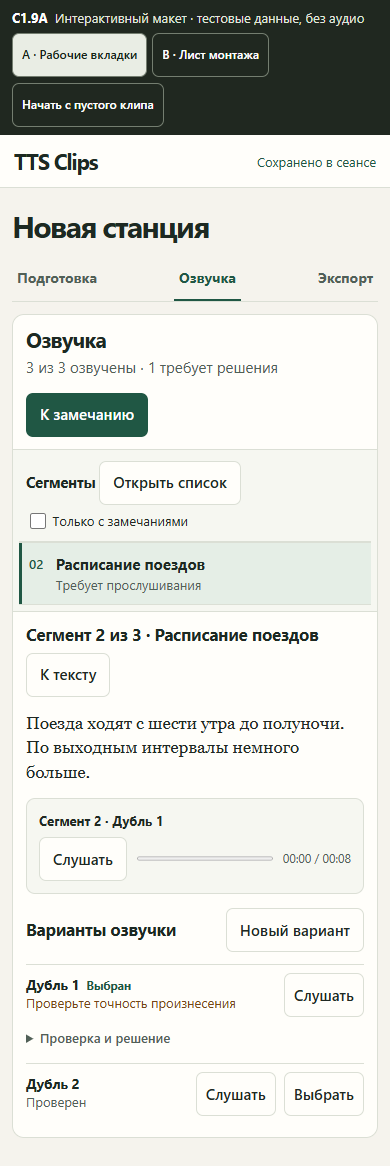
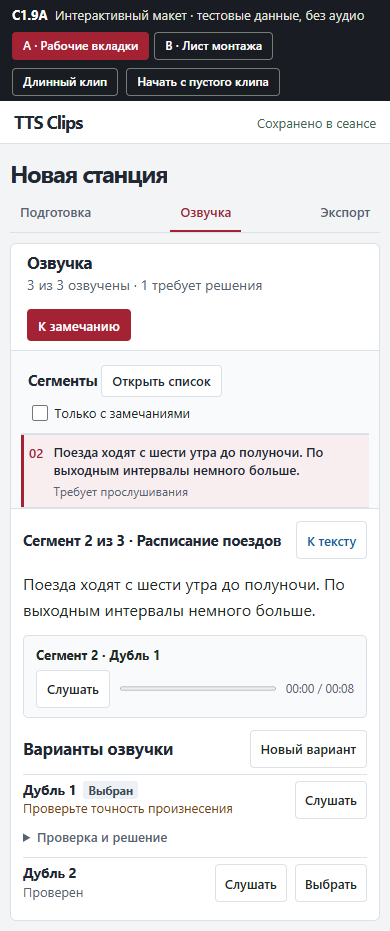
Adapt compact tabbed workspace to long speech segments

diff --git a/docs/mockups/c1.9a/mockups.js b/docs/mockups/c1.9a/mockups.js
@@ -4,6 +4,7 @@ const phrases = [
   { name: "Доступ к платформам", text: "К платформам ведёт крытая галерея. Для пассажиров с колясками работают два лифта." }
 ];
 const example = phrases.map(item => item.text).join("\n\n");
+const longExample = "Утренний поезд приходит к открытой платформе, когда в окнах станционного зала только загорается свет. Во время первой недели дежурные записывали вопросы пассажиров и отмечали места, где люди останавливались в поисках указателя. Эти наблюдения передали проектировщикам.\n\nПоезда ходят с шести утра до полуночи. В выходные дни интервалы между рейсами немного увеличиваются. О том, как устроен маршрут, рассказывают сотрудники станции. Вместе с корреспондентом они прошли весь путь от входных дверей до края платформы.\n\nК платформам ведёт крытая галерея, по которой пассажиры могут пройти от остановки даже в сильный дождь. Во время первой недели дежурные записывали вопросы пассажиров и отмечали места, где люди останавливались в поисках указателя. Эти наблюдения передали проектировщикам.\n\nУ центрального входа сохранили старые часы, которые много лет служили местом встречи перед отправлением. О том, как устроен маршрут, рассказывают сотрудники станции. Вместе с корреспондентом они прошли весь путь от входных дверей до края платформы.\n\nДля велосипедистов рядом с кассами оборудовали стоянку и оставили свободный проход к боковому входу. Во время первой недели дежурные записывали вопросы пассажиров и отмечали места, где люди останавливались в поисках указателя. Эти наблюдения передали проектировщикам.\n\nИз вестибюля хорошо видно табло отправления, поэтому пассажирам больше не приходится подходить к кассе. О том, как устроен маршрут, рассказывают сотрудники станции. Вместе с корреспондентом они прошли весь путь от входных дверей до края платформы.\n\nВечерние рейсы встречает дежурный сотрудник, который помогает найти нужный выход к автобусной остановке. Во время первой недели дежурные записывали вопросы пассажиров и отмечали места, где люди останавливались в поисках указателя. Эти наблюдения передали проектировщикам.\n\nПереход через пути перенесли в подземную галерею, связанную с платформой широким освещённым пандусом. О том, как устроен маршрут, рассказывают сотрудники станции. Вместе с корреспондентом они прошли весь путь от входных дверей до края платформы.\n\nЗал ожидания открывается до первого поезда, чтобы ранние пассажиры могли дождаться рейса в тепле. Во время первой недели дежурные записывали вопросы пассажиров и отмечали места, где люди останавливались в поисках указателя. Эти наблюдения передали проектировщикам.\n\nРядом с лестницей работает лифт, в который свободно помещаются детская коляска и сопровождающий взрослый. О том, как устроен маршрут, рассказывают сотрудники станции. Вместе с корреспондентом они прошли весь путь от входных дверей до края платформы.\n\nНа западной стороне станции обустроили небольшой сквер, откуда пешеходная дорожка ведёт к жилому кварталу. Во время первой недели дежурные записывали вопросы пассажиров и отмечали места, где люди останавливались в поисках указателя. Эти наблюдения передали проектировщикам.\n\nПосле последнего рейса сотрудники обходят платформы и проверяют освещение вдоль всего пассажирского маршрута. О том, как устроен маршрут, рассказывают сотрудники станции. Вместе с корреспондентом они прошли весь путь от входных дверей до края платформы.";
 const presets = {
   "Спокойный диктор": "Calm Russian narrator, clear articulation, measured pace.",
   "Спокойный репортаж": "Russian field reporter, warm conversational tone, natural pauses.",
@@ -13,9 +14,11 @@ const labels = { prep: "Подготовка", studio: "Озвучка", export:
 const stages = Object.keys(labels);
 const root = document.querySelector("#app");
 let concept, view, state, timer;
+let listOffset = 0;
 
 function reset(scene = "empty") {
   clearTimeout(timer);
+  listOffset = 0;
   view = scene === "export" ? "export" : scene === "work" ? "studio" : "prep";
   state = {
     name: scene === "empty" ? "Новый клип" : "Новая станция",
@@ -123,7 +126,7 @@ function inspector(items) {
   if (!row) return "";
   const isReview = items.length > 1 && i === 1;
   const playing = state.playing || (isReview ? state.current : 1);
-  return `<article id="segment-focus" tabindex="-1" class="inspector" aria-label="Активный сегмент">
+  return `<article id="segment-focus" data-segment-id="${i}" tabindex="-1" class="inspector" aria-label="Активный сегмент">
     <div class="inspector-top"><h3>Сегмент ${i + 1} из ${items.length} · ${escape(row.name)}</h3>
       ${button("К тексту", "back-text")}</div>
     <blockquote>${escape(row.text)}</blockquote>
@@ -147,7 +150,7 @@ function studio() {
     if (state.filter && needsReview() && i !== 1) return "";
     const status = !state.synthesized ? "Нет записи" : i === 1 && needsReview() ? "Требует прослушивания" : "Готов к экспорту";
     return `<li class="segment"><button class="segment-row" data-action="segment" data-segment="${i}" aria-pressed="${i === index}">
-      <span class="segment-index">${String(i + 1).padStart(2,"0")}</span><span><span class="segment-title">${escape(row.name)}</span>
+      <span class="segment-index">${String(i + 1).padStart(2,"0")}</span><span><span class="segment-title">${escape(concept === "a" ? row.text : row.name)}</span>
       <span class="segment-caption">${status}</span></span></button>
       ${concept === "b" && i === index ? inspector(items) : ""}</li>`;
   }).join("");
@@ -197,6 +200,10 @@ function exporting() {
 }
 
 function render(focus = "") {
+  const oldList = root.querySelector("#segment-list");
+  if (oldList && document.body.dataset.concept === "a") listOffset = oldList.scrollTop;
+  const oldInspector = root.querySelector("#segment-focus");
+  const inspectorOffset = oldInspector?.dataset.segmentId === String(state.selection) ? oldInspector.scrollTop : 0;
   document.body.dataset.concept = concept;
   document.querySelectorAll("[data-concept]").forEach(el => {
     if (el.tagName === "BUTTON") el.setAttribute("aria-pressed", el.dataset.concept === concept);
@@ -216,6 +223,20 @@ function render(focus = "") {
           `class="inline-stage-head" aria-expanded="${view === stage}" aria-controls="panel-${stage}"`)}
         <div id="panel-${stage}" ${view === stage ? "" : "hidden"}>${view === stage ? content[stage]() : ""}</div></section>`).join("")}
     </main>`;
+  if (concept === "a") {
+    const list = root.querySelector("#segment-list");
+    const inspector = root.querySelector("#segment-focus");
+    if (list) {
+      list.scrollTop = listOffset;
+      const current = list.querySelector('[aria-pressed="true"]');
+      if (current && list.clientHeight < list.scrollHeight) {
+        const item = current.getBoundingClientRect(), panel = list.getBoundingClientRect();
+        if (item.bottom > panel.bottom) list.scrollTop += item.bottom - panel.bottom;
+        if (item.top < panel.top) list.scrollTop += item.top - panel.top;
+      }
+    }
+    if (inspector) inspector.scrollTop = inspectorOffset;
+  }
   if (focus) document.querySelector(focus)?.focus({ preventScroll: false });
 }
 
@@ -229,7 +250,11 @@ function go(stage, focus = true) {
 function fromHash() {
   const [letter, scene] = location.hash.slice(1).split("/");
   concept = letter === "a" ? "a" : "b";
-  reset(!letter ? "work" : ["work", "prep", "export"].includes(scene) ? scene : "empty");
+  if (letter === "a" && scene === "long") {
+    reset("work");
+    state.text = longExample;
+    state.name = "Станция глазами пассажира";
+  } else reset(!letter ? "work" : ["work", "prep", "export"].includes(scene) ? scene : "empty");
   render();
 }
 window.addEventListener("hashchange", fromHash);
@@ -265,6 +290,7 @@ document.addEventListener("change", event => {
 document.addEventListener("click", event => {
   const el = event.target.closest("button");
   if (!el) return;
+  if (el.dataset.action === "long-demo") { location.hash = "a/long"; fromHash(); return; }
   if (el.dataset.concept) { concept = el.dataset.concept; render(); return; }
   const action = el.dataset.action;
   if (!action) return;

diff --git a/docs/mockups/c1.9a/mockups.css b/docs/mockups/c1.9a/mockups.css
@@ -193,3 +193,54 @@ body[data-concept=b] {
 }
 body[data-concept=b] { min-height:100vh }
 body[data-concept=b] .save { color:#426552 }
+body:not([data-concept=a]) .long-demo { display:none }
+body[data-concept=a] {
+  --accent:#a32335; --ink:#202833; --muted:#566371; --line:#dce1e6; --paper:#fff;
+  --soft:#f9fafb; --tint:#f8eef0; background:#f3f4f6; min-height:100vh;
+  font:14px/1.48 "Segoe UI",Arial,sans-serif;
+  & .review {background:#191d23;padding-block:5px;gap:8px}
+  & .review button {min-height:28px;font-size:12px}
+  & .review button[aria-pressed=true] {background:#a32335;color:white;border-color:#a32335}
+  & .top-inner {min-height:42px;padding-block:4px}
+  & .wordmark {font-size:18px}
+  & .save {color:#426552}
+  & .workspace {max-width:1360px;padding-top:16px;padding-bottom:16px}
+  & .clip-header {margin-bottom:4px}
+  & .clip-name {font-size:24px;min-height:32px;width:min(100%,32ch)}
+  & button,& select,& input:not([type=checkbox]) {min-height:32px}
+  & button {font-size:13px;padding:4px 10px;border-radius:4px;font-weight:550}
+  & .stages {margin-bottom:10px;gap:15px}
+  & .stages button {min-height:38px;border-radius:0}
+  & .stage {border-radius:6px}
+  & .stage-head,& .stage-foot {padding:9px 16px}
+  & .stage-head h2 {font-size:17px}
+  & .stage-head p {margin-top:2px}
+  & .segment-list {padding:9px 10px 0;border-radius:0}
+  & .segment-row {padding:8px;line-height:1.4;border-radius:0}
+  & .segment-title {font-size:13px;font-weight:550;display:-webkit-box;-webkit-line-clamp:2;-webkit-box-orient:vertical;overflow:hidden}
+  & .segment-caption {font-size:12px;margin-top:3px}
+  & .inspector {padding:14px 18px;gap:12px}
+  & .inspector-top h3 {font-size:15px}
+  & .inspector-top button {color:#175da1}
+  & .inspector blockquote {font:16px/1.6 "Segoe UI",Arial,sans-serif;max-width:70ch}
+  & .field-head {margin-bottom:6px}
+  & .player {border-radius:5px;padding:9px 12px}
+  & .take {padding:6px 0}
+  & .active-label {background:#edf1f5;color:#3c4957;padding:1px 5px;border-radius:3px}
+  & .prep>div,& .export-grid>div {padding:14px 16px}
+  & .stack {gap:8px;align-content:start}
+  & .script {font:15px/1.6 "Segoe UI",Arial,sans-serif;height:clamp(200px,44vh,540px)}
+  & .hint:not(.warn) {background:#f1f7f3;border-color:#498264}
+  & summary {padding-block:5px}
+}
+@media(min-width:701px) and (min-height:590px) {
+ body[data-concept=a] .studio {height:clamp(305px,calc(100dvh - 268px),840px);grid-template-columns:minmax(230px,.85fr) minmax(0,1.8fr)}
+ body[data-concept=a] .segment-list {display:flex;flex-direction:column;min-height:0}
+ body[data-concept=a] #segment-list,body[data-concept=a] .inspector {overflow-y:auto;overscroll-behavior-y:contain;scrollbar-gutter:stable;min-height:0}
+}
+@media(max-width:700px) {
+ body[data-concept=a] .workspace {padding:10px}
+ body[data-concept=a] .segment-list.show-all #segment-list {max-height:36dvh;overflow-y:auto}
+ body[data-concept=a] .inspector {padding:12px}
+ body[data-concept=a] .inspector button, body[data-concept=a] .stages button {min-height:38px}
+}

diff --git a/docs/mockups/c1.9a/index.html b/docs/mockups/c1.9a/index.html
@@ -14,6 +14,7 @@
     <button type="button" data-concept="a">A · Рабочие вкладки</button>
     <button type="button" data-concept="b">B · Лист монтажа</button>
   </div>
+  <button type="button" class="long-demo" data-action="long-demo">Длинный клип</button>
   <button class="reset" type="button" data-action="reset">Начать с пустого клипа</button>
 </header>
 <div id="app"></div>

diff --git a/docs/C1.9A_UX_Redesign_Proposal.md b/docs/C1.9A_UX_Redesign_Proposal.md
@@ -1,6 +1,6 @@
 # C1.9A. Предложение по редизайну TTS Clips
 
-**Выбранная структура — B, «Лист монтажа».** Рабочие разделы раскрываются на одном листе. Визуальная редакция для согласования использует компактные формы, белые поверхности, нейтральный серый фон, графитовую шапку и бордовый акцент действий. На широком экране в раскрытой строке текст и плеер расположены слева, варианты — справа. На телефоне они идут друг за другом.
+**На согласовании две компактные версии.** B сохраняет структуру «Лист монтажа». Рабочие разделы раскрываются на одном листе. Визуальная редакция для согласования использует компактные формы, белые поверхности, нейтральный серый фон, графитовую шапку и бордовый акцент действий. На широком экране в раскрытой строке текст и плеер расположены слева, варианты — справа. На телефоне они идут друг за другом.
 
 Целевой пользователь — монтажёр, которому передали готовый русский перевод. Его первая задача — вставить материал, выбрать голос, озвучить текст, разобрать замечания и получить MP3 без обучения. Основание — [C1.7](C1.7_Pilot_and_UX_Audit.md), [C1.8](C1.8_Speech_Ready_and_Integrity_Validation.md) и реализация `origin/main` на `f8b0ce3`. Изменения этого предложения находятся в `docs/`.
 
@@ -28,6 +28,10 @@ py -3 -m http.server 8795 --bind 127.0.0.1 --directory docs/mockups/c1.9a
 Под названием клипа постоянно видны три вкладки. На ширине от 900 px в «Подготовке» редактор и голос стоят рядом. В «Озвучке» слева остаётся список сегментов с готовностью текущего выбора, справа видны номер и текст активной реплики, один плеер и дубли. В «Экспорте» параметры и результат можно сверить рядом. Библиотека клипов открывается из шапки и доступна в любой вкладке.
 
 На узком экране сохраняется одна колонка и те же три вкладки. В «Озвучке» сворачиваемый список показывает активный сегмент в закрытом виде. После выбора список сворачивается, фокус переходит к заголовку реплики и плееру. В «Подготовке» голос идёт после текста и результата проверки. В «Экспорте» препятствия и параметры идут перед плеером и скачиванием. Макет пробует переход в одну колонку при 700 px. Порог 900 px — стартовая гипотеза для реализации, проверить на ширинах 768 и 900 px.
+
+**Длинный материал.** Откройте [демонстрацию A](http://127.0.0.1:8795/#a/long) или нажмите «Длинный клип» на панели макета A. В примере двенадцать реплик по 200–300 символов. Слева видны номер, первые две строки исходного текста и состояние. Справа открывается полный текст, под ним общий плеер и варианты. «К тексту» выделяет реплику в редакторе. Длина реплик относится к демонстрационным данным.
+
+На широком экране заголовок списка и фильтр остаются над прокручиваемыми строками. У инспектора собственная прокрутка при переполнении; текст реплики и плеер движутся вместе. При смене сегмента инспектор показывает его начало. При прослушивании дубля положение списка сохраняется. На телефоне страница прокручивается целиком, временно раскрытый список ограничен 36% высоты окна и закрывается после выбора. При низком настольном окне используется прокрутка страницы. [Широкий макет](mockups/c1.9a/a-long-wide.png) · [Узкий макет](mockups/c1.9a/a-long-narrow.png).
 
 **Первый клип.** В библиотеке нажать «Новый клип». На вкладке «Подготовка» вставить перевод и увидеть положительное сообщение о письменных формах или перейти к замечанию. Выбрать сохранённый голос либо создать пробу, прослушать и нажать «Использовать». Затем открыть «Озвучку» и нажать «Озвучить недостающие». Для тестового клипа выбрать «К замечанию»: сегмент 2 выделяется слева, плеер и его варианты открываются справа либо сразу под номером сегмента на узком экране. Прослушать дубль, принять его после сверки или выбрать пригодный второй. Открыть «Экспорт», собрать MP3, прослушать полный клип и скачать файл. К тексту можно вернуться из любой вкладки; ссылка из инспектора выделяет активную реплику.
 
@@ -135,4 +139,4 @@ A остаётся вариантом сравнения для повторяю
 - Положительный результат виден после сохранения, готовности текста, завершения синтеза и успешного плана. Проверить ошибки загрузки, синтеза, QC, конфликта, повреждённого WAV и недоступного MP3 с готовым WAV.
 - Финальный экспорт требует действующего серверного допуска. Черновик содержит предупреждения. Смена вкладки, перезапуск, новая редакция и новый дубль сохраняют прежние WAV, выборы для неизменившегося материала, результаты QC и исторические экспорты. Проверка проводится на копии базы.
 
-Структура B выбрана. К согласованию предлагаются компактное оформление, тексты основных статусов и расположение расширенных действий. Синтез, алгоритмы QC и формат экспорта рассматриваются как действующие контракты.
+Компактные A и B доступны для сравнения. К согласованию предлагаются компактное оформление, тексты основных статусов и расположение расширенных действий. Синтез, алгоритмы QC и формат экспорта рассматриваются как действующие контракты.
